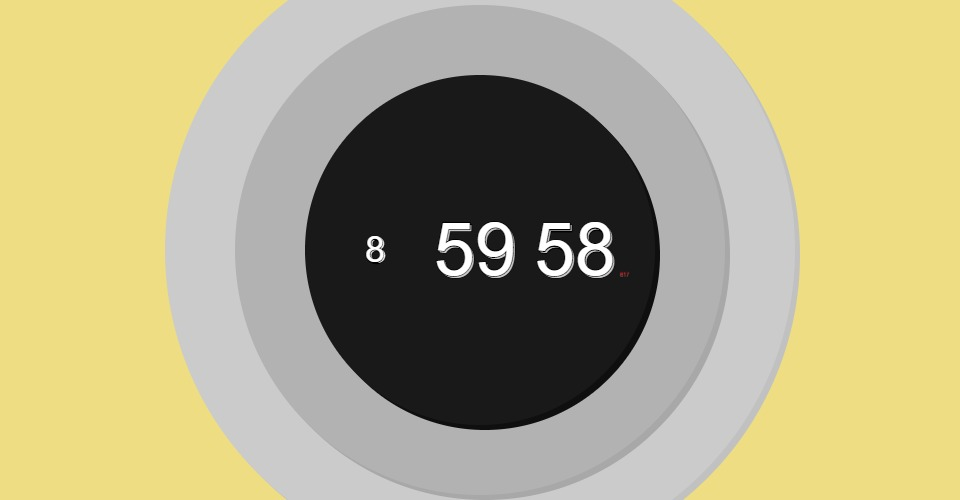
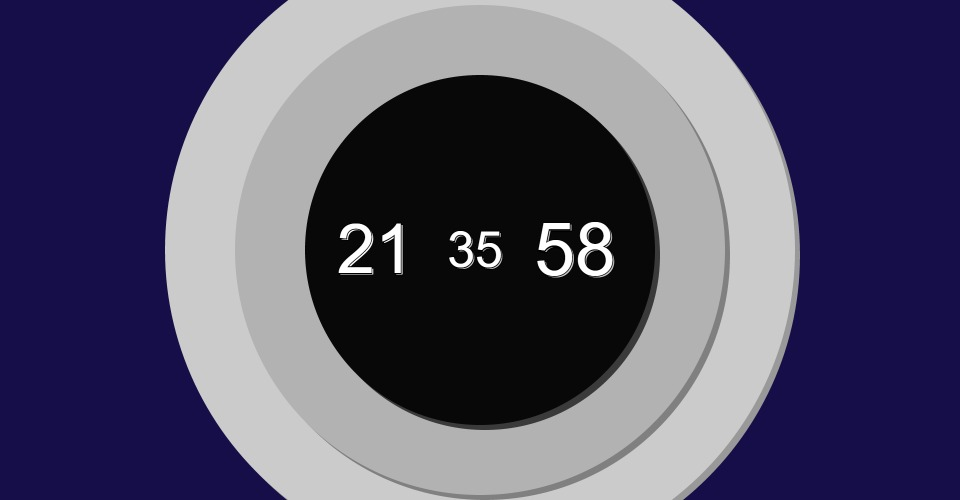
Completed functionality
This is a final pass at functionality. Alarm is fully working as well as
all other features.

Also edited the base api and debug page and function to enable debugging
the new day, month, and year units.

Also added a possibility of two alarm countdowns and signal designs
which are picked at random.

Updated Readme, preview, and thumbnail to match.

diff --git a/clock.js b/clock.js
@@ -4,13 +4,24 @@
  
 // Concept. Have the second minute and hour displayed and then have their size be made relative to their distance from them resetting (i.e. them completing their full cycle through to their individual maximum values).
 
-var millisXpos, shadow, alarm_time;
+var millisXpos, shadow, alarm_time, alarm_random;
 var texty = 250;
 var textX = [375, 475, 575, 595];
-var alarm_color = false;
-	
+var alarm_random_option = [0, 1];
+
+// // The below code is used to color the outer 'drop-shadow' ellipse a lighter or darker shade than the inner depending on how light or dark the inner currently is.
+function FillValueFun (fill_value, DiffValue) {
+		if (fill_value <= DiffValue ) {
+		fill(fill_value + DiffValue);	
+	} else if (fill_value >= (255 - DiffValue)) {
+		fill(fill_value - DiffValue);	
+	} else {
+		fill(fill_value - DiffValue);	
+	}
+}
+
 // Background calendar elements function
-function draw_calendar(hour, alarm) {
+function draw_calendar(hour, alarm, second, millis, day, month, year) {
 	strokeWeight(0);
 
 var BGcol = color(100);
@@ -19,43 +30,75 @@ var DayCol = color(255, 160, 0);
 var NightCol = color(0, 0, 80);
 var BGtime = map(hour, 0, 23, 0.0, 1);
 	
+	// This code changes the background color depending on the time of day
 	if (light <= 12) {
 			BGcol = lerpColor(NightCol, DayCol, BGtime)
 	}	else {
 			BGcol = lerpColor(DayCol, NightCol, BGtime)
 	}
 	
-	if (alarm = 0) {
-		for (var alarm_count = 0; alarm_count > 0; alarm_count++) {
-			BGcol = color(255, 0, 0);
+	//This code deals with the alarm 'signalling' when it 'goes off'
+	if (alarm == 0 && second % 2 == 0) {
+		var PrevCol = BGcol
+		for (var alarm_count = 0; alarm_count < 10; alarm_count++) {
+			BGcol = lerpColor(PrevCol, color(150, 0, 0), millis / 1000);
 			background(BGcol);
 			}
 		}	else {
 		background(BGcol);
 	}
-	
-var date_day = 31 - day(); // These values take away from the target date (end of month, year, and century) to provide the countdown (not alarm) element to the clock. The day value doesn't account for differences in the lengths of months right now.
-var date_month = 12 - month();
-var date_year = 2100 - year();
+
+var date_day = 31 - day; // These values take away from the target date (end of month, year, and century) to provide the countdown (not alarm) element to the clock. The day value doesn't account for differences in the lengths of months right now.
+var date_month = 12 - month;
+var date_year = 2100 - year;
 var fill_value;
+var InDiff = 50; // The difference in shade (lighter or darker depending on how light or dark the inner circle) between the inner and outer ellipse that represent the calendar
 
 	fill_value = map(date_year, 0, 100, 0, 245); // This maps the shade of the circle representing this unit on the calendar to how long until that the end of that time unit (E.g. the closer till the end of the month the darker the shade).
-	fill(fill_value - 40);	
+	FillValueFun(fill_value, InDiff); // Function to change the shade of the outer circle to be a shade darker than the outer, expect where the outer has hit max darkness, then it will be a shade lighter.
 	ellipse(485, 255, 630, 630);
 	fill(fill_value);	
 	ellipse(480, 250, 630, 630);
 	
 	fill_value = map(date_month, 1, 12, 0, 245);
-	fill(fill_value - 10);	
+	FillValueFun(fill_value, InDiff); // Sahde change function
 	ellipse(485, 255, 490, 490);
 	fill(fill_value);
 	ellipse(480, 250, 490, 490);
 	
+	if (alarm < 0) {
+		alarm_random = random(alarm_random_option); // Code to randomly select which alarm countdown will be next - only if alarm isn't already active
+	}
+	
 	fill_value = map(date_day, 1, 31, 0, 245);
-	fill(fill_value - 10);	
-	ellipse(485, 255, 350, 350);
-	fill(fill_value);
-	ellipse(480, 250, 350, 350);
+	if (alarm == 0 && second % 2 && alarm_random == 0) { // Cause clock face and background to alternate flashing red after alarm countdown 'shrinks'
+		FillValueFun(fill_value, InDiff);
+		ellipse(485, 255, 350, 350);
+		PrevCol = color(fill_value);
+		fill(lerpColor(PrevCol, color(150, 0, 0), millis / 1000));
+		ellipse(480, 250, 350, 350);
+	}	else if (alarm == 0 && alarm_random == 1) { // Cause alarm face to flash every second after it has grown to during countdown
+			elpsize = 2500;
+			fill(lerpColor(color(20, 20, 20), color(150, 0, 0), millis / 1000));
+			ellipse(485, 255, elpsize, elpsize);			
+	}	else if (alarm > 0 && alarm_random == 0) { // Code for alarm countdown random 1 (Clock face shrinking)
+			var elpsize = map(alarm, 10, 0, 350, 0);
+			FillValueFun(fill_value, InDiff);
+			ellipse(485, 255, elpsize, elpsize);
+			fill(150, 0, 0);
+			ellipse(482.5, 252.5, elpsize, elpsize);
+	}	else if (alarm > 0 && alarm_random == 1) { // Code for alarm countdown random 2 (clock face growing to cover screen)
+			elpsize = map(alarm, 10, 0, 350, 1150); // Just large enough to cover the whole canvas
+			FillValueFun(fill_value, InDiff);
+			ellipse(485, 255, elpsize, elpsize);
+			fill(150, 0, 0);
+			ellipse(482.5, 252.5, elpsize, elpsize);
+	}	else { 									// Draw clock face with shade based on day of the month when alarm isn't active
+			FillValueFun(fill_value, InDiff);
+			ellipse(485, 255, 350, 350);
+			fill(fill_value);
+			ellipse(480, 250, 350, 350);
+	}
 	
 	//console.log(date_day);
 	//console.log(date_month);
@@ -64,26 +107,22 @@ var fill_value;
 	//console.log(hour);
 	//console.log(BGtime);
 	//console.log(BGcol);
+	console.log(alarm_random);
 	//print(BGcol);
 }
  
-function draw_clock(hour, minute, second, millis, alarm) {
+function draw_clock(hour, minute, second, millis, alarm, day, month, year) { // Changed this to accept variables from the expanded API
 	
 	// Draws the background elements of the clock that show changes to the date first (so they are beneath the other elements)
-	draw_calendar(hour, alarm);
+	draw_calendar(hour, alarm, second, millis, day, month, year);
 	
-	//alarm condition goes here, triggers the alarm function on mouse press IF it isn't already triggered.
-	if (keyIsPressed) { // Checks if user starts clock by pressing a key - also checks if alarm is started already - AND checks if the alarm has been started by the debug page
-		turn_on_alarm();
-	}
-	
-	strokeWeight(2); // Stroke weight to 8 pixels
+	strokeWeight(2); // Stroke weight to 2 pixels
 	stroke(0); // This 
 	textSize(40);
 	textAlign(CENTER, CENTER);// Aligns the text so it is centered AROUND the position it is placed at, rather than placed starting from it's designated position
 	fill(255); // This is used to reset the color so all the numbers aren't colored red
 	
-	// These were used to set the variables to debug the clock and check how it looked at different times
+	// These were used to set the variables to quickly debug the clock and check how it looked at different times
 	//millis = 999;
 	//second = 0;
 	//minute = 59;
@@ -91,7 +130,7 @@ function draw_clock(hour, minute, second, millis, alarm) {
 	
 	shadow = map(hour, 0, 23, 1.25, 1.75)
 	textSize(map(hour, 0, 23, 0, 59) + 15); //The inclusion of the equation element in this text size is to ensure that the size of the hour text is relative to the other text elements.
-	text(hour, textX[0] + shadow, texty + shadow);
+	text(hour, textX[0] + shadow, texty + shadow); // Text position drawn from an array
 	text(hour, textX[0], texty);
 	
 	shadow = map(minute, 0, 59, 1.25, 1.75)		
@@ -123,24 +162,31 @@ function draw_clock(hour, minute, second, millis, alarm) {
 	fill('red'); //This is used to set the milli seconds text to red
 	text(millis, textX[3] + second / 2, millisXpos);
 	
-	// Alarm function		
+	// Old Alarm function		
 	// Alarm text
-	if (alarm > 0) {
-	alarmTextSize = (map(5, -10000, 0, 0, 59) + 15); //Maps alarm text size to how close to being done it is
-	textSize(alarmTextSize);
-	fill(255,0,0); // Makes alarm text red
-	var alarm_text = round(alarm);
-	text(alarm_text, 480, 390);
-	}
+	//if (alarm > 0) {
+	//	alarmTextSize = (map(5, -10000, 0, 0, 59) + 15); //Maps alarm text size to how close to being done it is
+	//	textSize(alarmTextSize);
+	//	fill(240,0,0); // Makes alarm text red
+	//	var alarm_text = round(alarm);
+	//	text(alarm_text, 480, 390);
+	//} else if (alarm == 0) {
+	//	fill(240,0,0); // Makes alarm text red
+	//	textSize(45);
+	//	text("Alarm!", 480, 390);
+	//}
 	
-	print("Alarm color:");
-	console.log(alarm_color);
-	print("Alarm time:");
-	console.log(alarm);
+	//print("Alarm time:");
+	//console.log(alarm);
 	
 	//console.log(hour);
 	//console.log(minute);
 	//console.log(second);
+	print("Day:");
+	console.log(day);
+	print("Month:");
+	console.log(month);
+	print("Year:");
+	console.log(year);
 	//console.log(millisXpos);
-	//console.log(alarm);	
 }

diff --git a/sketch.js b/sketch.js
@@ -45,7 +45,7 @@ function mouseClicked() {
 
 // taking ideas from http://cmuems.com/2016/60212/deliverables/deliverables-02/
 function draw () {
-  var H, M, S, mils, alarm;
+  var H, M, S, mils, alarm, dateday, datemonth, dateyear; // Added day, month, and year variables
 
   if (debug_is_on && debugCheckbox.checked()) {
     hourSlider.removeAttribute('disabled');
@@ -53,6 +53,8 @@ function draw () {
     secSlider.removeAttribute('disabled');
     millisSlider.removeAttribute('disabled');
     daySlider.removeAttribute('disabled'); //Added day slider
+    monthSlider.removeAttribute('disabled'); //Added month slider
+    yearSlider.removeAttribute('disabled'); //Added year slider
     alarmCheckbox.removeAttribute('disabled');
     alarmSlider.removeAttribute('disabled');
 
@@ -61,6 +63,8 @@ function draw () {
     S = secSlider.value();
     mils = millisSlider.value();
     dateday = daySlider.value(); // Added day variable
+    datemonth = monthSlider.value(); // Added month variable
+    dateyear = yearSlider.value(); // Added year variable
     if (alarmCheckbox.checked()) {
       alarm = alarmSlider.value();
     }
@@ -73,7 +77,10 @@ function draw () {
     H = hour();
     M = minute();
     S = second();
-	var dateday = day();  // Added day variable
+	mils = millis();
+	dateday = day();  // Added day variable
+	datemonth = month();  // Added month variable
+	dateyear = year();  // Added year variable
     if (nextAlarm > 0) {
       now = millis();
       var millis_offset = nextAlarm - now;
@@ -108,6 +115,8 @@ function draw () {
       secSlider.attribute('disabled','');
       millisSlider.attribute('disabled','');
       daySlider.attribute('disabled',''); // Added day slider
+      monthSlider.attribute('disabled',''); // Added month slider
+      yearSlider.attribute('disabled',''); // Added year slider
       alarmCheckbox.attribute('disabled','');
       alarmSlider.attribute('disabled','');
 
@@ -116,14 +125,17 @@ function draw () {
       secSlider.value(S);
       millisSlider.value(mils);
       daySlider.value(dateday); // Added day slider
+      monthSlider.value(datemonth); // Added month slider
+      yearSlider.value(dateyear); // Added year slider
       alarmCheckbox.checked(alarm >= 0);
       alarmSlider.value(alarm);
     }
   }
 
-  draw_clock(H, M, S, mils, alarm);
-  print("Day:"); // Used to clear up which value is which in console
-  console.log(dateday); // This was added to check if the day was being changed by the slider. It is, however since this slider based setting of it isn't passed to draw_clock and then draw_calendar it doesn't affect the clock itself. (See note at top of this file).
+  draw_clock(H, M, S, mils, alarm, dateday, datemonth, dateyear); // Expanded this to output the day, month, and year variables
+  
+  //print("Day:"); // Used to clear up which value is which in console
+  //console.log(dateday); // This was added to check if the day was being changed by the slider. It is, however since this slider based setting of it isn't passed to draw_clock and then draw_calendar it doesn't affect the clock itself. (See note at top of this file).
 }
 
 function keyTyped() {

diff --git a/debug.js b/debug.js
@@ -19,8 +19,12 @@ function debug_setup() {
   secSlider.parent("sliderSeconds")
   millisSlider = createSlider(0, 999, 0);
   millisSlider.parent("sliderMillis")
-  daySlider = createSlider(0, 31, 0); // Added daySlider
-  daySlider.parent("sliderDay")  // Added daySlider
+  daySlider = createSlider(1, 31, 27); // Added daySlider
+  daySlider.parent("sliderDay")  // Added daySlider  
+  monthSlider = createSlider(0, 11, 8); // Added monthSlider
+  monthSlider.parent("sliderMonth")  // Added monthSlider  
+  yearSlider = createSlider(2000, 2100, 2085); // Added yearSlider
+  yearSlider.parent("sliderYear")  // Added yearSlider
   alarmCheckbox = createCheckbox('', false);
   alarmCheckbox.parent("checkboxAlarm")
   alarmSlider = createSlider(0, 60, 0);

diff --git a/debug.html b/debug.html
@@ -27,7 +27,11 @@
                     <td>millis</td>
                     <td id="sliderMillis"></td>
                     <td>day</td>			 <!-- Added day slider -->
-                    <td id="sliderDay"></td> <!-- Added day slider -->
+                    <td id="sliderDay"></td> <!-- Added day slider -->                    
+					<td>month</td>			 <!-- Added month slider -->
+                    <td id="sliderMonth"></td> <!-- Added month slider -->                    
+					<td>year</td>			 <!-- Added year slider -->
+                    <td id="sliderYear"></td> <!-- Added year slider -->
                 </tr>
                 <tr>
                     <td>alarm</td>

diff --git a/README.md b/README.md
@@ -1,5 +1,5 @@
 ## PS1 MDDN 242 2017
 
-### Maeda's 8th clock revised
+### Final clock
 
-This is a clock based on Maeda's 8th clock design. Originally I started to re-create Maeda's design with the minute and hour numbers changing sizes in time with the seconds, however I decided to modify this concept slightly to create a much longer loop of sizes and include more detailed times.
+The result of many iterations of work this is an clock with a focus on simplicity and longevity. It uses a fairly standard text display for the time however these numbers scale the closer they get to the end of their time unit (second, minute, hour, or day). The background color changes to represent the time of day. The three circles also change shade relative to their distance to the end of their greater time unit (month, year, century). There is also two possible alarm countdowns and warnings which are picked at random. The base code has also been modified to allow the new time units and to debug them.
